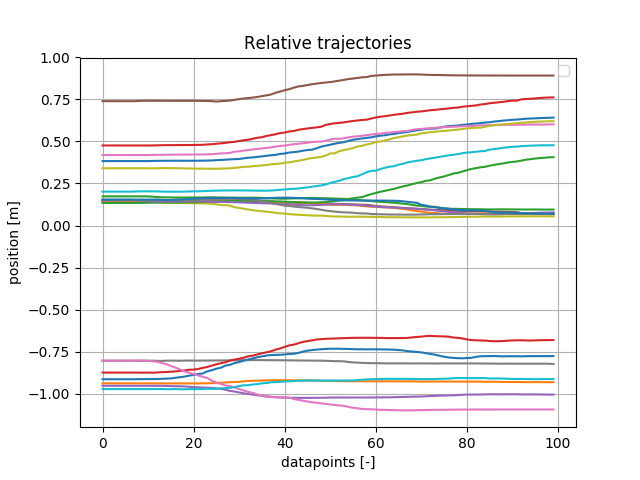
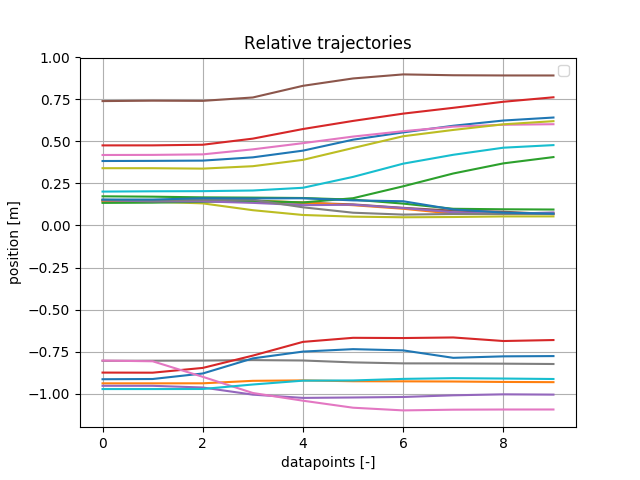
using keypoints for generalization works, also visualizes the interpolated keypoints

diff --git a/trajectory_refinement/nodes/trajectory_refinement_promp.py b/trajectory_refinement/nodes/trajectory_refinement_promp.py
@@ -363,7 +363,12 @@ class trajectoryRefinement():
         rospy.loginfo("Refining trajectory...")
         prediction, context = self.parser.promptraj_msg_to_execution_format(req.trajectory)
         
+        ndesired = 75
+        n = len(prediction)
         dt = req.trajectory.times[1]
+        
+        if n < ndesired:
+            prediction, dt = self.resampler.interpolate_learned_keypoints(prediction, ndesired)
 
         refined_prediction = self.refineTrajectory(prediction, dt)
         new_traj, new_dt = self.determineNewTrajectory(prediction, refined_prediction, context)
@@ -394,8 +399,8 @@ class trajectoryRefinement():
         plt.savefig('/home/fmeccanici/Documents/thesis/figures/debug_refinement/comparison_new_predicted_after_resampling.png')
         plt.close()   
 
-        # rospy.loginfo("len_new_traj before dtw = " + str(len(new_traj)))
-        # rospy.loginfo("len pred before dtw = " + str(len(prediction)))
+        rospy.loginfo("len_new_traj before dtw = " + str(len(new_traj)))
+        rospy.loginfo("len pred before dtw = " + str(len(prediction)))
 
         # apply dynamic time warping --> reference = prediction
         pred_aligned, new_traj = self.dtw.apply_dtw(prediction, new_traj)

diff --git a/learning_from_demonstration/nodes/lfd_node.py b/learning_from_demonstration/nodes/lfd_node.py
@@ -384,7 +384,7 @@ class lfdNode():
         
         self.lfd.load_trajectories_from_folder(self.raw_path)
 
-        desired_datapoints = 100
+        desired_datapoints = 10
         self.lfd.prepare_for_learning(desired_datapoints)
         
         plt.figure()
@@ -523,6 +523,13 @@ class lfdNode():
 
         object_wrt_base = self.get_marker_wrt_base()
         prediction = self.lfd.generalize(goal)
+
+        ndesired = 75
+        n = len(prediction)
+        
+        if n < ndesired:
+            prediction, dt = self.resampler.interpolate_learned_keypoints(prediction, ndesired)
+
         relative_prediction = self.parser.traj_wrt_base(prediction, object_wrt_base)
 
         # traj_pred_message = self.predicted_trajectory_to_prompTraj_message(prediction, goal)

diff --git a/learning_from_demonstration/src/learning_from_demonstration_python/trajectory_resampler.py b/learning_from_demonstration/src/learning_from_demonstration_python/trajectory_resampler.py
@@ -45,8 +45,8 @@ class trajectoryResampler():
 
         interpol_pred_traj = []
         for i,q in enumerate(self.interpolate_quaternions(qstart, qend, n_desired, False)):
-            pos = [cartx_new[i], carty_new[i], cartz_new[i], q[1], q[2], q[3], q[0]]
-            ynew = pos + object_pose + [xdesired[i]]
+            pose = [cartx_new[i], carty_new[i], cartz_new[i], q[1], q[2], q[3], q[0]]
+            ynew = pose + [xdesired[i]]
 
             interpol_pred_traj.append(ynew)
 

diff --git a/learning_from_demonstration/src/learning_from_demonstration_python/learning_from_demonstration.py b/learning_from_demonstration/src/learning_from_demonstration_python/learning_from_demonstration.py
@@ -209,7 +209,7 @@ class learningFromDemonstration():
         self.num_samples = len(self.trajectories_for_learning[0])
         
         # default value
-        num_basis = 20
+        num_basis = 10
 
         # default value
         sigma = 0.1
